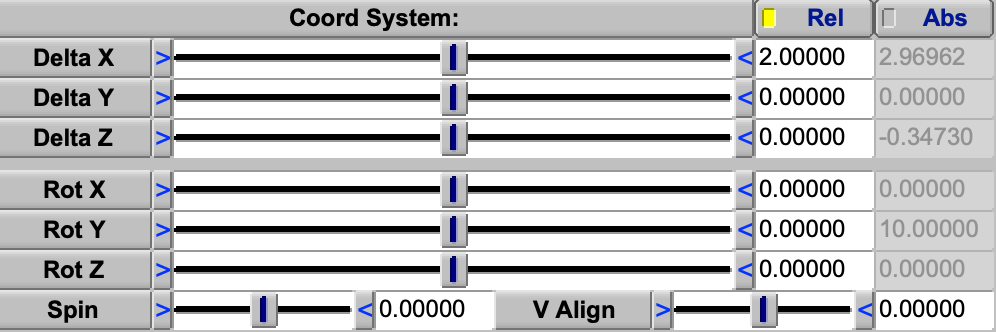
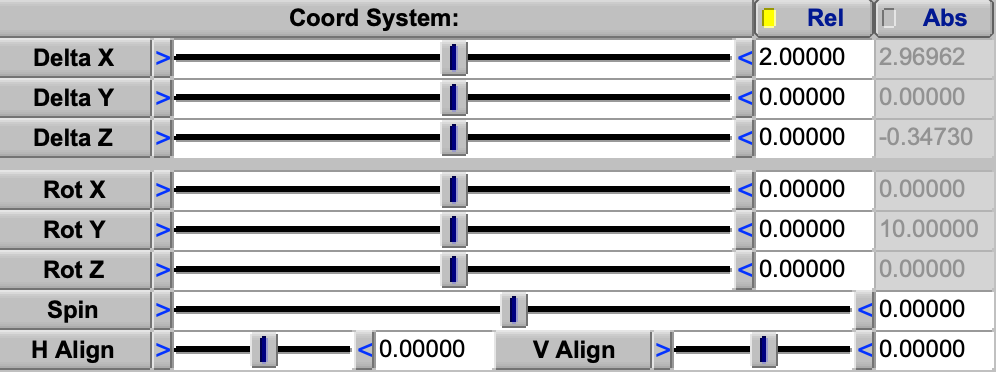
Document Stack H Align
Add an H Align figure beside V Align's, check H Align in verify.py, and
retake the Coord System screenshot to show the new row.

diff --git a/src/help/html/FuselageStack.html b/src/help/html/FuselageStack.html
@@ -215,6 +215,11 @@ one</td>
 <td style="text-align: left;"><em>V Align</em></td>
 </tr>
 <tr>
+<td style="text-align: left;">Horizontal alignment</td>
+<td style="text-align: left;">None</td>
+<td style="text-align: left;"><em>H Align</em></td>
+</tr>
+<tr>
 <td style="text-align: left;">Presets</td>
 <td style="text-align: left;">None</td>
 <td style="text-align: left;"><em>Stack Preset</em></td>
@@ -359,6 +364,23 @@ alt="Figure 4. V Align" /></p>
 between point ends, every section at V Align 0 (above) and at V Align 1
 (below). At 1 each section's center lies half its height H below the
 Stack's line, and the tops of sections 1 to 3 lie on it.</em></p>
+<p><em>H Align</em> does the same across the section's width, by its
+value times half the section's width: at 1 its
+<math display="inline" xmlns="http://www.w3.org/1998/Math/MathML"><semantics><mrow><mi>+</mi><mi>Y</mi></mrow><annotation encoding="application/x-tex">+Y</annotation></semantics></math>
+side lies on the Stack's line, at -1 its
+<math display="inline" xmlns="http://www.w3.org/1998/Math/MathML"><semantics><mrow><mi>−</mi><mi>Y</mi></mrow><annotation encoding="application/x-tex">-Y</annotation></semantics></math>
+side does (Figure 5). It lets sections of different widths share a flat
+side. Like V Align, the move is the section's alone.</p>
+<p><img src="images/FuselageStack_halign.png" title="Figure 5. H Align"
+alt="Figure 5. H Align" /></p>
+<p><em>Figure 5. A Stack of three ellipses of widths 0.8, 1.4 and 0.6
+between point ends, seen from above, every section at H Align 0 (above)
+and at H Align 1 (below). At 1 each section's center lies half its width
+W toward
+<math display="inline" xmlns="http://www.w3.org/1998/Math/MathML"><semantics><mrow><mi>−</mi><mi>Y</mi></mrow><annotation encoding="application/x-tex">-Y</annotation></semantics></math>
+from the Stack's line, and the
+<math display="inline" xmlns="http://www.w3.org/1998/Math/MathML"><semantics><mrow><mi>+</mi><mi>Y</mi></mrow><annotation encoding="application/x-tex">+Y</annotation></semantics></math>
+sides of sections 1 to 3 lie on it.</em></p>
 <p><em>Spin</em>, in both components, slides the start of the section's
 curve around the section by a fraction of the curve's parameter, from -1
 to 1. It changes no shape; it changes which points of neighboring
@@ -404,16 +426,17 @@ neighbor, losing its <em>X</em>.</p>
 <p>LOOP closes the sections on themselves, for a component whose
 sections run around a closed path, such as a nacelle whose sections run
 forward through the flowpath to the inlet lip and back along the outside
-(Figure 5). The last section is no longer edited: it takes the first
+(Figure 6). The last section is no longer edited: it takes the first
 section's shape and size, and its place. In a Fuselage it takes the
 first section's location, rotation and <em>Spin</em>, and both ends lie
 at <em>X</em> 1, the aft end. In a Stack it is placed exactly on the
-first section, whatever the steps to it, and takes its <em>Spin</em> and
-<em>V Align</em>. Its skinning is not copied, so set it to match if the
-join must be smooth. The Stack's nacelle presets are loops.</p>
+first section, whatever the steps to it, and takes its <em>Spin</em>,
+<em>V Align</em> and <em>H Align</em>. Its skinning is not copied, so
+set it to match if the join must be smooth. The Stack's nacelle presets
+are loops.</p>
 <p><img src="images/FuselageStack_loop.png"
-title="Figure 5. A Stack loop" alt="Figure 5. A Stack loop" /></p>
-<p><em>Figure 5. The Nacelle Flowthrough Mid Origin preset, cut through
+title="Figure 6. A Stack loop" alt="Figure 6. A Stack loop" /></p>
+<p><em>Figure 6. The Nacelle Flowthrough Mid Origin preset, cut through
 its axis. Its sections run in a loop: from section 0 in the middle of
 the flowpath forward through the inlet to the lip, aft along the outside
 to the outlet lip, and forward through the outlet back to section 6,
@@ -461,12 +484,12 @@ to its left, so at each point across the section the cap reaches out by
 half the section's height there (at Length 1). Where the body ends
 straight, a Round cap on a circular section is therefore a hemisphere,
 and on an ellipse it reaches out by half the height, whatever the width
-(Figure 6): a wide, flat section gets a short, blunt cap, and a tall,
+(Figure 7): a wide, flat section gets a short, blunt cap, and a tall,
 narrow one a long cap. Where the body narrows toward its end, the cap
 continues the surface's direction and reaches out less.</p>
-<p><img src="images/FuselageStack_caps.png" title="Figure 6. Round caps"
-alt="Figure 6. Round caps" /></p>
-<p><em>Figure 6. A Round tail cap of Length 1 on a straight body, from
+<p><img src="images/FuselageStack_caps.png" title="Figure 7. Round caps"
+alt="Figure 7. Round caps" /></p>
+<p><em>Figure 7. A Round tail cap of Length 1 on a straight body, from
 above (left) and from the side (right). On a circle of diameter D it is
 a hemisphere. On an ellipse of width W twice its height H it reaches out
 by H/2 in both views, a half circle from the side and a half ellipse
@@ -553,6 +576,11 @@ to (<code>GetXSecSurf</code>, <code>GetXSec</code>,
 <td style="text-align: left;">V Align</td>
 <td style="text-align: left;">none</td>
 <td style="text-align: left;"><code>VAlign</code></td>
+</tr>
+<tr>
+<td style="text-align: left;">H Align</td>
+<td style="text-align: left;">none</td>
+<td style="text-align: left;"><code>HAlign</code></td>
 </tr>
 <tr>
 <td style="text-align: left;">Spin</td>

diff --git a/src/help/html/XSecSkinning.html b/src/help/html/XSecSkinning.html
@@ -227,8 +227,8 @@ skinning</td>
 <tr>
 <td style="text-align: left;">Stack</td>
 <td style="text-align: left;">Num U, clustering and skinning</td>
-<td style="text-align: left;">Steps, turns, Coord System, Spin and V
-Align</td>
+<td style="text-align: left;">Steps, turns, Coord System, Spin, V Align
+and H Align</td>
 </tr>
 <tr>
 <td style="text-align: left;">Propeller</td>

diff --git a/src/help/figure_src/fuselagestack/fuselagestack_figs.py b/src/help/figure_src/fuselagestack/fuselagestack_figs.py
@@ -1,4 +1,4 @@
-"""Figures for FuselageStack.md: section placement, section rotation, V Align, a Stack loop, Round end caps.
+"""Figures for FuselageStack.md: section placement, section rotation, V Align, H Align, a Stack loop, Round end caps.
 
     <build>/venv/bin/python fuselagestack_figs.py [place rotate loop valign caps]
 """
@@ -187,6 +187,46 @@ def valign():
     bf.save( fig, "FuselageStack_valign", [ [ canv[0] ], [ canv[1] ] ], hmax = 6.5 )
 
 
+def halign():
+    """FuselageStack_halign: three ellipses of different widths at H Align 0 and 1, from above."""
+    widths = { 1: 0.8, 2: 1.4, 3: 0.6 }
+    canv = []
+    fig = bf.figure()
+    for ha in ( 0.0, 1.0 ):
+        bf.renew()
+        s = vsp.AddGeom( "STACK" )
+        vsp.Update()
+        for i in range( 5 ):
+            if i in widths:
+                bf.setx( s, i, "Ellipse_Width", widths[i] )
+                bf.setx( s, i, "Ellipse_Height", 1.0 )
+            if i > 0:
+                bf.setx( s, i, "XDelta", 1.0 )
+            bf.setx( s, i, "HAlign", ha )
+        vsp.Update()
+        # At 1 every +Y side lies on the Stack's line, and each section is placed from the one before as if unmoved.
+        for i, w in widths.items():
+            side = vsp.CompPnt01( s, 0, i / 4.0, 0.0 )
+            assert abs( side.y() - 0.5 * w * ( 1.0 - ha ) ) < 1e-9 and abs( side.x() - i ) < 1e-9
+        c = bf.canvas( fig, bf.TOP )
+        bf.fill( c, bf.body_cut( s, wtop = 0.0, wbot = 0.5 ) )
+        for i in range( 5 ):
+            u = i / 4.0
+            tr = np.array( [ list( vsp.CompPnt01( s, 0, u, 0.5 ) ), list( vsp.CompPnt01( s, 0, u, 0.0 ) ) ] )
+            c.line( tr, color = "#1f1f1f", lw = 0.9, z = 30 )
+            bf.label( c, tr[1], "%d" % i, dy = 9 )
+        bf.axis_line( c, -0.3, LEN + 0.3 )
+        if ha == 1.0:
+            ctr = np.array( [ 2.0, -0.7, 0 ] )
+            c.point( ctr, "k", s = 10 )
+            bf.label( c, ctr, "center", dx = 6, ha = "left" )
+            bf.dim( c, np.array( [ 2.0, 0, 0 ] ), ctr, r"$W/2$", off = ( -0.35, 0 ), dx = -14, ext = False )
+        bf.title( c, "H Align %g" % ha, pad = 16 )
+        canv.append( c )
+    bf.key( canv[ -1 ], "top", ( 1.0, 0.0 ), 12, 0 )
+    bf.save( fig, "FuselageStack_halign", [ [ canv[0] ], [ canv[1] ] ], hmax = 6.5 )
+
+
 def hull( Q ):
     """The convex hull of 2D points Q ( n, 2 ), counterclockwise (Andrew's monotone chain)."""
     P = sorted( set( map( tuple, np.round( Q, 9 ) ) ) )
@@ -280,7 +320,7 @@ def caps():
     bf.save( fig, "FuselageStack_caps", canv, hmax = 6.0 )
 
 
-FIGS = { "place": place, "rotate": rotate, "loop": loop, "valign": valign, "caps": caps }
+FIGS = { "place": place, "rotate": rotate, "loop": loop, "valign": valign, "halign": halign, "caps": caps }
 
 if __name__ == "__main__":
     for name in ( sys.argv[ 1: ] or FIGS ):

diff --git a/src/help/figure_src/fuselagestack/verify.py b/src/help/figure_src/fuselagestack/verify.py
@@ -72,6 +72,14 @@ def fuselage_stack():
     vsp.Update()
     near( P( s, 0.5, 0.75 )[2], 0.0, 1e-9, "V Align 1: the top on the Stack's line" )
     near( P( s, 0.75, 0.75 )[2], 1.25, 1e-9, "V Align moves its section alone: the next is placed as at V Align 0" )
+    # H Align 1 puts the +Y side on the line, -1 the -Y side.
+    bf.setx( s, 2, "HAlign", 1.0 )
+    vsp.Update()
+    near( P( s, 0.5, 0.0 )[1], 0.0, 1e-9, "H Align 1: the +Y side on the Stack's line" )
+    near( P( s, 0.75, 0.0 )[1], 1.5, 1e-9, "H Align moves its section alone: the next is placed as at H Align 0" )
+    bf.setx( s, 2, "HAlign", -1.0 )
+    vsp.Update()
+    near( P( s, 0.5, 0.5 )[1], 0.0, 1e-9, "H Align -1: the -Y side on the Stack's line" )
     # Monotonic clamps an out-of-order section on its neighbor.
     bf.renew()
     f = vsp.AddGeom( "FUSELAGE" )

diff --git a/src/help/figure_src/fuselagestack/shots.py b/src/help/figure_src/fuselagestack/shots.py
@@ -16,5 +16,5 @@ def model():
     vsp.Update()
 
 
-snap.shots( model, "STACK_GEOM_SCREEN", { "FuselageStack_gui_coord": ( "Stack_XSec", ( 8, 189, 506, 355 ) ) },
+snap.shots( model, "STACK_GEOM_SCREEN", { "FuselageStack_gui_coord": ( "Stack_XSec", ( 8, 189, 506, 375 ) ) },
             name = "fuselagestack_coord" )

diff --git a/src/help/FuselageStack.md b/src/help/FuselageStack.md
@@ -59,6 +59,7 @@ Design tab are described in [Engine Model](EngineModel.md), and the Chevron cont
 | Overall length           | *Length* on the Design tab                                  | No parameter; the sum of the steps                                  |
 | XSec Order policies      | MONOTONIC (default), LOOP, FREE                             | FREE (default), LOOP                                                |
 | Vertical alignment       | None                                                        | *V Align*                                                           |
+| Horizontal alignment     | None                                                        | *H Align*                                                           |
 | Presets                  | None                                                        | *Stack Preset*                                                      |
 | Conversion               | *Convert to Stack*                                          | None                                                                |
 | Insert                   | Halfway to the next section; nothing else moves             | One step on from the active section; later sections move on        |
@@ -149,6 +150,16 @@ section is placed from where the section would be at V Align 0.
 (above) and at V Align 1 (below).  At 1 each section's center lies half its height H below the Stack's line, and the
 tops of sections 1 to 3 lie on it.*
 
+*H Align* does the same across the section's width, by its value times half the section's width: at 1 its $+Y$ side
+lies on the Stack's line, at -1 its $-Y$ side does (Figure 5).  It lets sections of different widths share a flat side.
+Like V Align, the move is the section's alone.
+
+![Figure 5. H Align](images/FuselageStack_halign.png "Figure 5. H Align")
+
+*Figure 5. A Stack of three ellipses of widths 0.8, 1.4 and 0.6 between point ends, seen from above, every section
+at H Align 0 (above) and at H Align 1 (below).  At 1 each section's center lies half its width W toward $-Y$ from the
+Stack's line, and the $+Y$ sides of sections 1 to 3 lie on it.*
+
 *Spin*, in both components, slides the start of the section's curve around the section by a fraction of the curve's
 parameter, from -1 to 1.  It changes no shape; it changes which points of neighboring sections the skinning joins, which
 matters when sections of different types meet.
@@ -168,15 +179,15 @@ edited, and switching to it from another policy pulls any section that is out of
 *X*.
 
 LOOP closes the sections on themselves, for a component whose sections run around a closed path, such as a nacelle
-whose sections run forward through the flowpath to the inlet lip and back along the outside (Figure 5).
+whose sections run forward through the flowpath to the inlet lip and back along the outside (Figure 6).
 The last section is no longer edited: it takes the first section's shape and size, and its place.  In a Fuselage it
 takes the first section's location, rotation and *Spin*, and both ends lie at *X* 1, the aft end.  In a Stack it is
-placed exactly on the first section, whatever the steps to it, and takes its *Spin* and *V Align*.  Its skinning is
-not copied, so set it to match if the join must be smooth.  The Stack's nacelle presets are loops.
+placed exactly on the first section, whatever the steps to it, and takes its *Spin*, *V Align* and *H Align*.  Its
+skinning is not copied, so set it to match if the join must be smooth.  The Stack's nacelle presets are loops.
 
-![Figure 5. A Stack loop](images/FuselageStack_loop.png "Figure 5. A Stack loop")
+![Figure 6. A Stack loop](images/FuselageStack_loop.png "Figure 6. A Stack loop")
 
-*Figure 5. The Nacelle Flowthrough Mid Origin preset, cut through its axis.  Its sections run in a loop: from section
+*Figure 6. The Nacelle Flowthrough Mid Origin preset, cut through its axis.  Its sections run in a loop: from section
 0 in the middle of the flowpath forward through the inlet to the lip, aft along the outside to the outlet lip, and
 forward through the outlet back to section 6, which lies on section 0.*
 
@@ -213,12 +224,12 @@ The caps are the Wing's None, Flat, Round, Edge and Sharp tip caps, with the sam
 built across the section as if it were an airfoil whose chord runs from the section's right side ($+Y$) to its left, so
 at each point across the section the cap reaches out by half the section's height there (at Length 1).  Where the body
 ends straight, a Round cap on a circular section is therefore a hemisphere, and on an ellipse it reaches out by half the
-height, whatever the width (Figure 6): a wide, flat section gets a short, blunt cap, and a tall, narrow one a long cap.
+height, whatever the width (Figure 7): a wide, flat section gets a short, blunt cap, and a tall, narrow one a long cap.
 Where the body narrows toward its end, the cap continues the surface's direction and reaches out less.
 
-![Figure 6. Round caps](images/FuselageStack_caps.png "Figure 6. Round caps")
+![Figure 7. Round caps](images/FuselageStack_caps.png "Figure 7. Round caps")
 
-*Figure 6. A Round tail cap of Length 1 on a straight body, from above (left) and from the side (right).  On a circle
+*Figure 7. A Round tail cap of Length 1 on a straight body, from above (left) and from the side (right).  On a circle
 of diameter D it is a hemisphere.  On an ellipse of width W twice its height H it reaches out by H/2 in both views, a
 half circle from the side and a half ellipse from above.*
 
@@ -255,6 +266,7 @@ A script reaches a section's parameters through the XSec it belongs to (`GetXSec
 | Absolute       | none                                        | `XAbs`, `YAbs`, `ZAbs`, `XRotateAbs`, `YRotateAbs`, `ZRotateAbs` |
 | Coord System   | none                                        | `XSAbsRelFlag`: `ABS` or `REL`                 |
 | V Align        | none                                        | `VAlign`                                       |
+| H Align        | none                                        | `HAlign`                                       |
 | Spin           | `Spin`                                      | `Spin`                                         |
 | Num U, clusters | `SectTess_U`, `FwdCluster`, `AftCluster`   | `SectTess_U`, `FwdCluster`, `AftCluster`       |
 

diff --git a/src/help/XSecSkinning.md b/src/help/XSecSkinning.md
@@ -49,7 +49,7 @@ replaces, but brings the rest of the copied section:
 |:----------|:----------------------------------------------------------------------|:-------------------------------------------------|
 | Wing      | The whole section, planform included: span, chords, sweep, twist, dihedral | Nothing                                      |
 | Fuselage  | Rotation, spin, Num U, clustering and skinning                        | Location                                         |
-| Stack     | Num U, clustering and skinning                                        | Steps, turns, Coord System, Spin and V Align     |
+| Stack     | Num U, clustering and skinning                                        | Steps, turns, Coord System, Spin, V Align and H Align |
 | Propeller | The section's attributes                                              | Radius                                           |
 
 A pasted curve brings only the shape type and its parameters, so the section's place, rotation, tessellation, skinning
